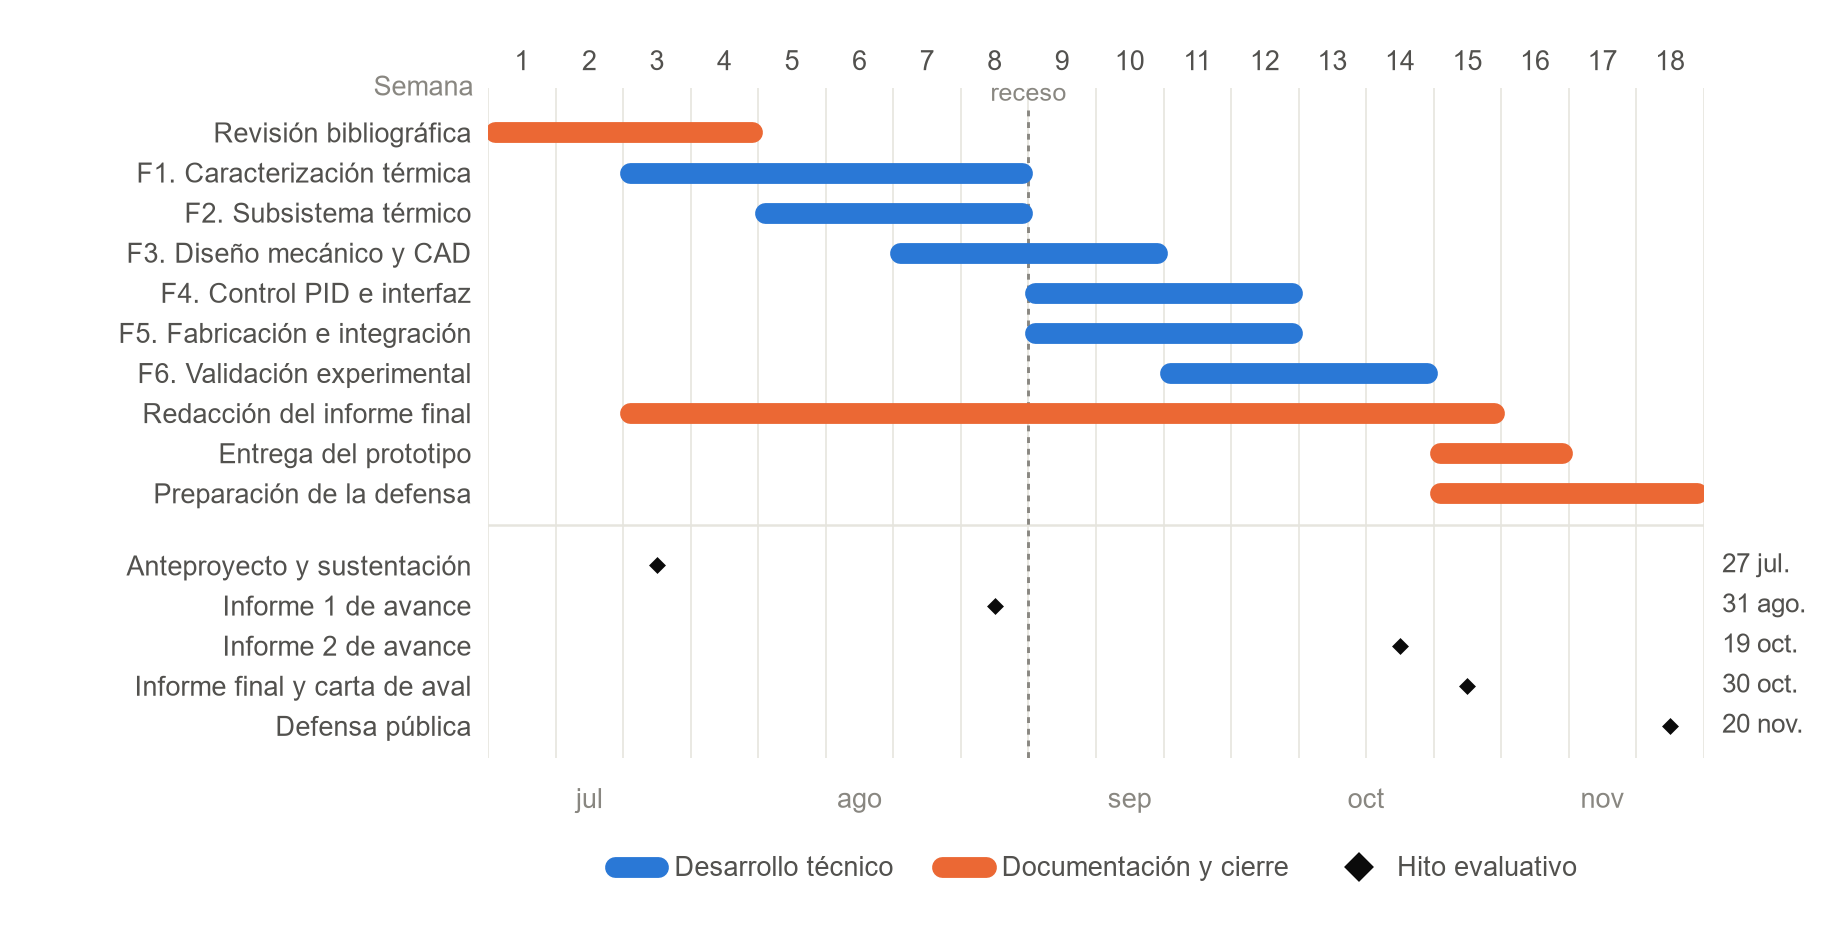
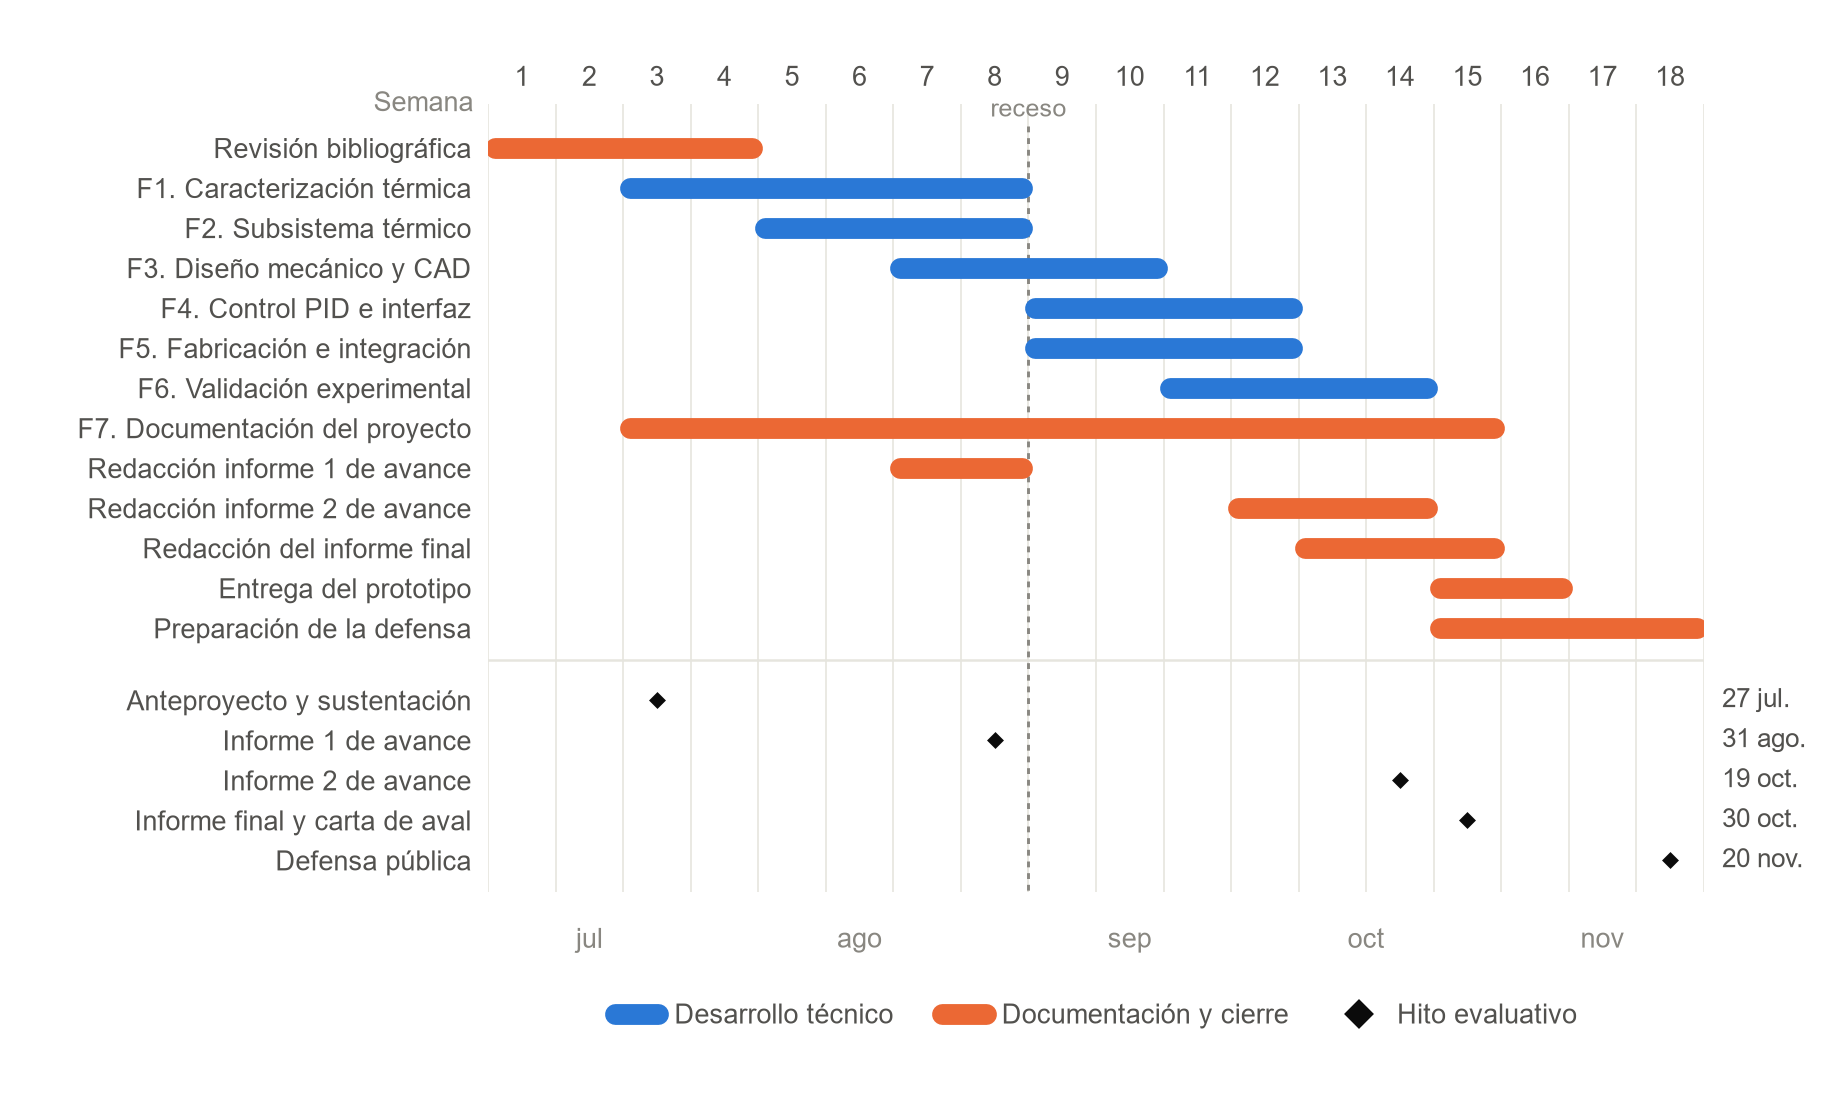
anteproyecto finalizado con correcciones del asesor

diff --git a/docs/anteproyecto/secciones/09-propiedad-intelectual.tex b/docs/anteproyecto/secciones/09-propiedad-intelectual.tex
@@ -1,9 +1,5 @@
 \section{Propiedad intelectual}
 
-El proyecto se acoge al Reglamento de Propiedad Intelectual vigente de EAFIT \cite{eafit_pi,eafit_pi_web}.
-
-Los \emph{derechos morales} nacen con la creación, sin necesidad de registro, y son personales e irrenunciables (art.~5, num.~5). Corresponden a Alexander Saldarriaga Vélez como autor y al asesor en la medida en que su aporte implique la concreción y materialización de la creación (art.~6, par.~1).
-
-Los \emph{derechos patrimoniales} corresponden a la Universidad EAFIT. La titularidad de los estudiantes sobre lo que desarrollan en actividades académicas se decide según existan o no aportes significativos de la Universidad (art.~7), y este trabajo se ejecutará con recursos significativos en los términos del artículo~5, numeral~12 —taller, Laboratorio de Mecatrónica, equipos e instrumentación, y la asignación del asesor—, lo que configura el supuesto del artículo~6, numeral~2. El estudiante acoge esa titularidad sin reserva y no solicita un reparto distinto.
+El proyecto se acoge al Reglamento de Propiedad Intelectual vigente de EAFIT \cite{eafit_pi,eafit_pi_web}. Los \emph{derechos morales}, que nacen con la creación y son personales e irrenunciables (art.~5, num.~5), corresponden a Alexander Saldarriaga Vélez como autor y al asesor en la medida de su aporte (art.~6, par.~1). Los \emph{derechos patrimoniales} corresponden a la Universidad, pues el trabajo se ejecutará con recursos significativos —taller, Laboratorio de Mecatrónica, equipos e instrumentación y la asignación del asesor— en los términos de los artículos~5 (num.~12), 6 (num.~2) y 7; el estudiante acoge esa titularidad sin reserva.
 
 El documento, los planos, el modelo CAD y el firmware quedan protegidos por derechos de autor, que operan sin registro constitutivo. No se prevé solicitar una patente, pues el aporte está en la configuración y el ajuste experimental de tecnologías conocidas; de identificarse materia protegible por otra vía, se consultará con la Universidad antes de divulgarla. El prototipo queda a disposición del Laboratorio de Mecatrónica.

diff --git a/docs/anteproyecto/secciones/06-cronograma.tex b/docs/anteproyecto/secciones/06-cronograma.tex
@@ -1,6 +1,6 @@
 \section{Cronograma de actividades}
 
-El trabajo se acoge a la \textbf{opción 2} del calendario, sin mención de honor y con grados el 9 y 10 de diciembre de 2026. El período 2026-2 inicia en la semana del 13 de julio (semana~1), incluye una semana de receso y cierra el 25 de noviembre. El hito que gobierna la planeación no es la defensa sino la entrega del informe final con carta de aval el 30 de octubre (semana~15): toda la experimentación debe cerrarse en la semana~14. La documentación no es una etapa final sino la fase transversal F7, que arranca en la semana~3 —con el anteproyecto ya escrito— y se alimenta de cada fase a medida que se ejecuta, de modo que las últimas quincenas se dediquen a consolidar y revisar, no a escribir desde cero (figura~\ref{fig:cronograma}).
+El trabajo se acoge a la \textbf{opción 2} del calendario, sin mención de honor y con grados el 9 y 10 de diciembre de 2026. El período 2026-2 inicia en la semana del 13 de julio (semana~1), incluye una semana de receso y cierra el 25 de noviembre. El hito que gobierna la planeación no es la defensa sino la entrega del informe final con carta de aval el 30 de octubre (semana~15): toda la experimentación debe cerrarse en la semana~14. La documentación no es una etapa final sino la fase transversal F7, que arranca en la semana~3 —con el anteproyecto ya escrito— y se alimenta de cada fase a medida que se ejecuta, de modo que las últimas quincenas se dediquen a consolidar y revisar, no a escribir desde cero. Sobre esa base se reservan ventanas explícitas de redacción antes de cada entrega evaluativa: semanas~7--8 para el informe~1 de avance, semanas~12--14 para el informe~2 y semanas~13--15 para el informe final, que consolida el material ya redactado en los avances (figura~\ref{fig:cronograma}).
 
 \begin{figure}[H]
 \centering

diff --git a/src/tdg/figures/schedule.py b/src/tdg/figures/schedule.py
@@ -61,6 +61,9 @@ ACTIVITIES = [
     Activity("F5. Fabricación e integración", 9, 12, "development"),
     Activity("F6. Validación experimental", 11, 14, "development"),
     Activity("F7. Documentación del proyecto", 3, 15, "documentation"),
+    Activity("Redacción informe 1 de avance", 7, 8, "documentation"),
+    Activity("Redacción informe 2 de avance", 12, 14, "documentation"),
+    Activity("Redacción del informe final", 13, 15, "documentation"),
     Activity("Entrega del prototipo", 15, 16, "documentation"),
     Activity("Preparación de la defensa", 15, 18, "documentation"),
 ]
@@ -93,7 +96,7 @@ LABELS = {
 }
 
 WIDTH_IN = 6.14      # = 15,6 cm de \linewidth: la figura se inserta sin escalar
-HEIGHT_IN = 3.1
+HEIGHT_IN = 3.65     # crece con el número de filas: mantiene el paso vertical
 BAR_WIDTH_PT = 5.0
 BLOCK_GAP = 0.8      # filas en blanco entre actividades e hitos
 TOP_MARGIN = 1.1     # filas libres arriba, para la marca del receso
